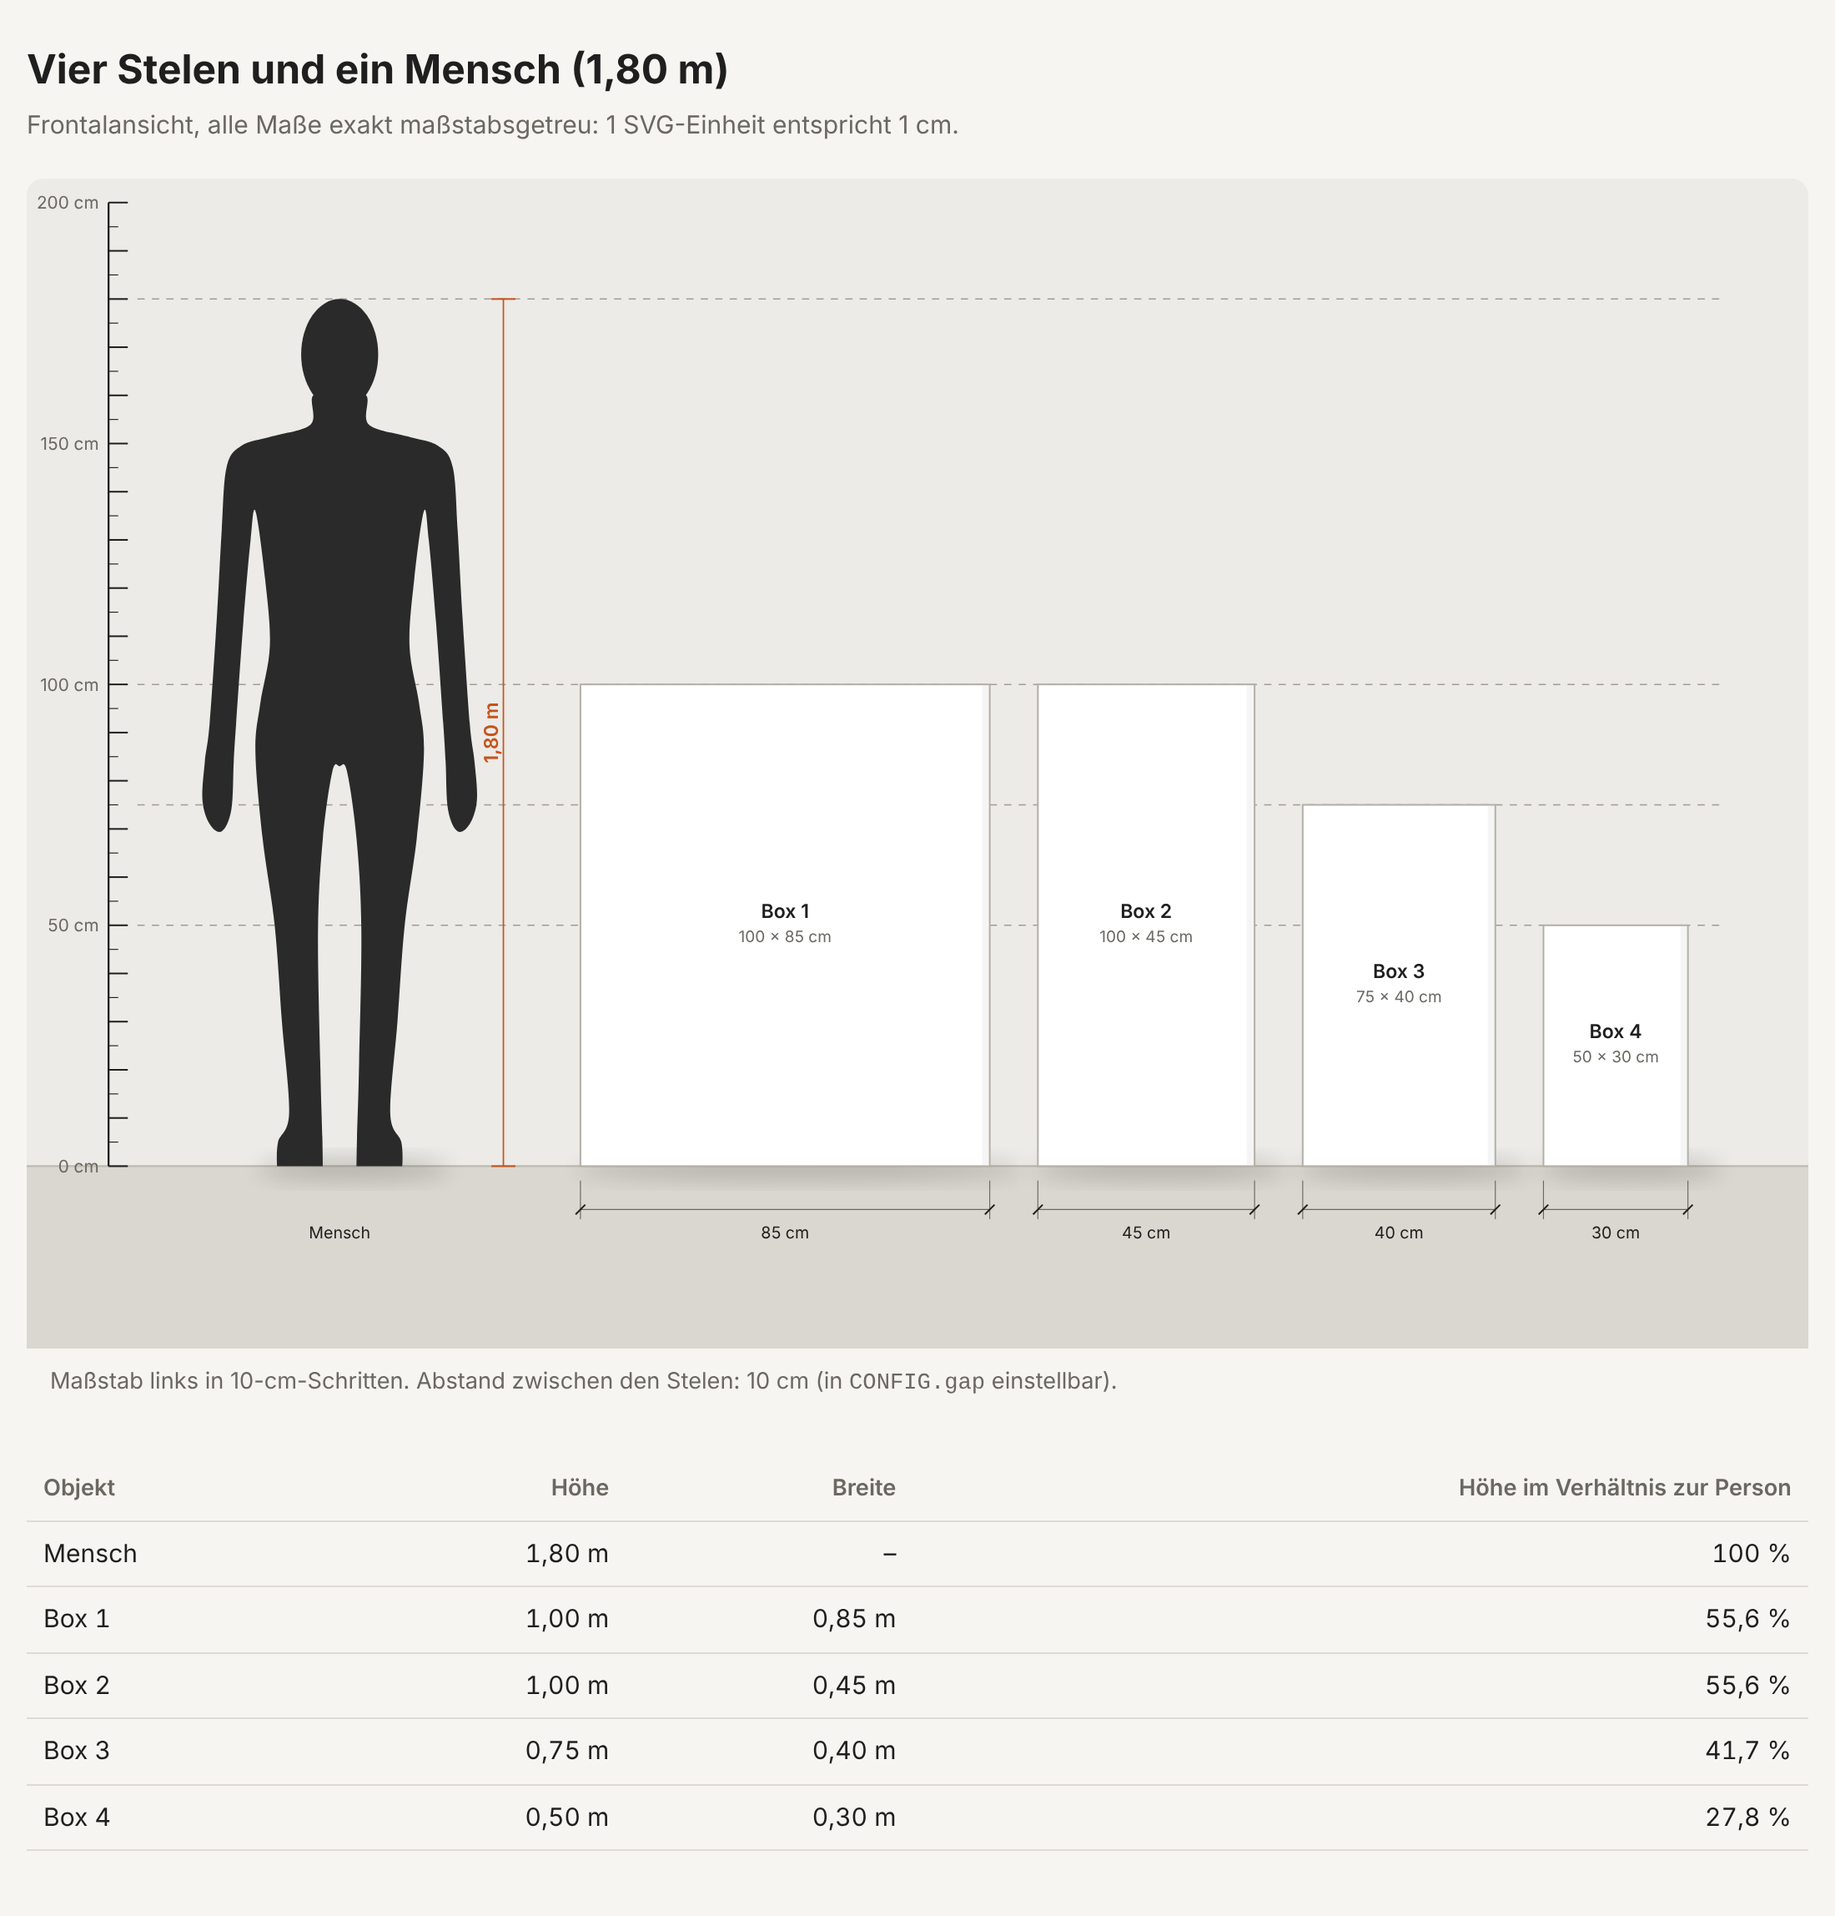
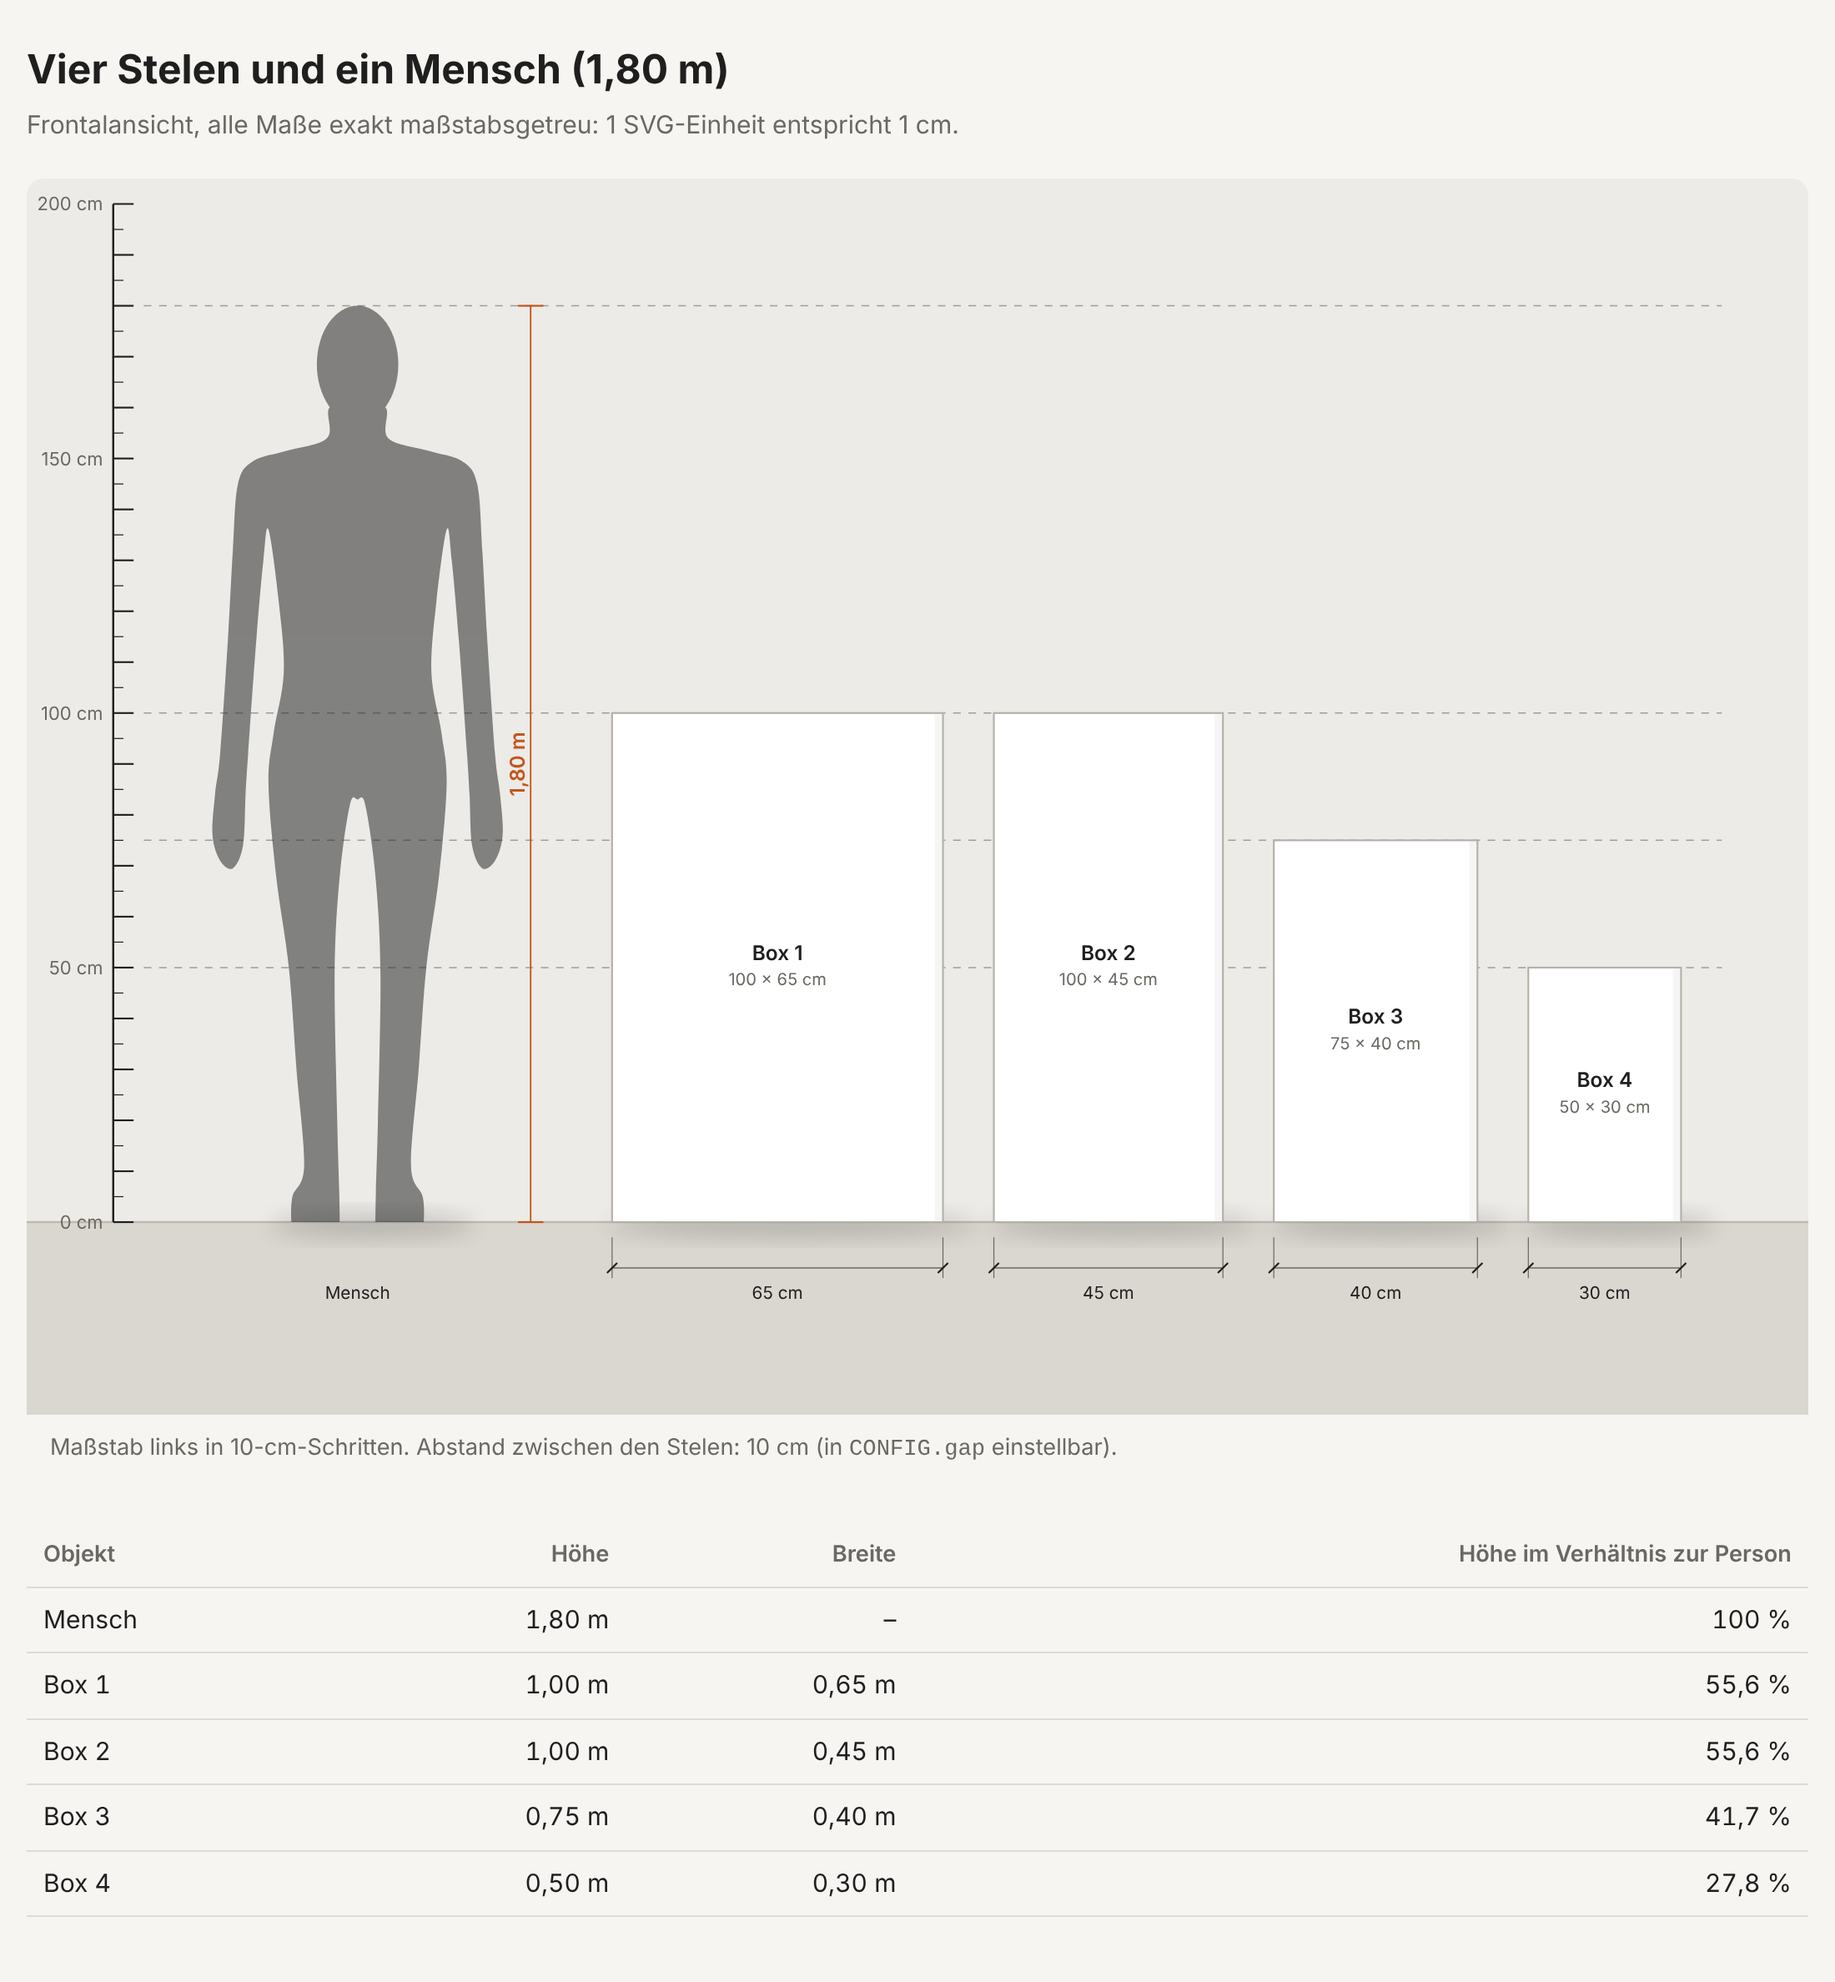
Set Box 1 width to 65 cm and soften the person silhouette
Claude-Session: https://claude.ai/code/session_016KRoKtkguNeqVsoKkYoSNJ

diff --git a/stelen-visualisierung/index.html b/stelen-visualisierung/index.html
@@ -61,7 +61,7 @@ const CONFIG = {
   firstBoxX: 70,        // linke Kante von Box 1
   gap: 10,              // Abstand zwischen den Stelen
   boxes: [
-    { name: "Box 1", h: 100, w: 85 },
+    { name: "Box 1", h: 100, w: 65 },
     { name: "Box 2", h: 100, w: 45 },
     { name: "Box 3", h: 75,  w: 40 },
     { name: "Box 4", h: 50,  w: 30 },
@@ -168,7 +168,7 @@ function smoothClosedPath(pts) {
 }
 const k = CONFIG.personHeight / 180;
 el("ellipse", { cx: CONFIG.personX + 3, cy: 0.6, rx: 20, ry: 2.2, fill: "#000", opacity: 0.18, filter: "url(#soft)" });
-const person = el("g", { id: "person", transform: `translate(${CONFIG.personX} ${-CONFIG.personHeight}) scale(${k})`, fill: "var(--person)" });
+const person = el("g", { id: "person", transform: `translate(${CONFIG.personX} ${-CONFIG.personHeight}) scale(${k})`, fill: "var(--person)", opacity: 0.55 });
 el("ellipse", { cx: 0, cy: 11.5, rx: 8, ry: 11.5 }, person);   // Kopf: Scheitel exakt bei y = 0
 el("path", { d: smoothClosedPath(outline) }, person);
 
